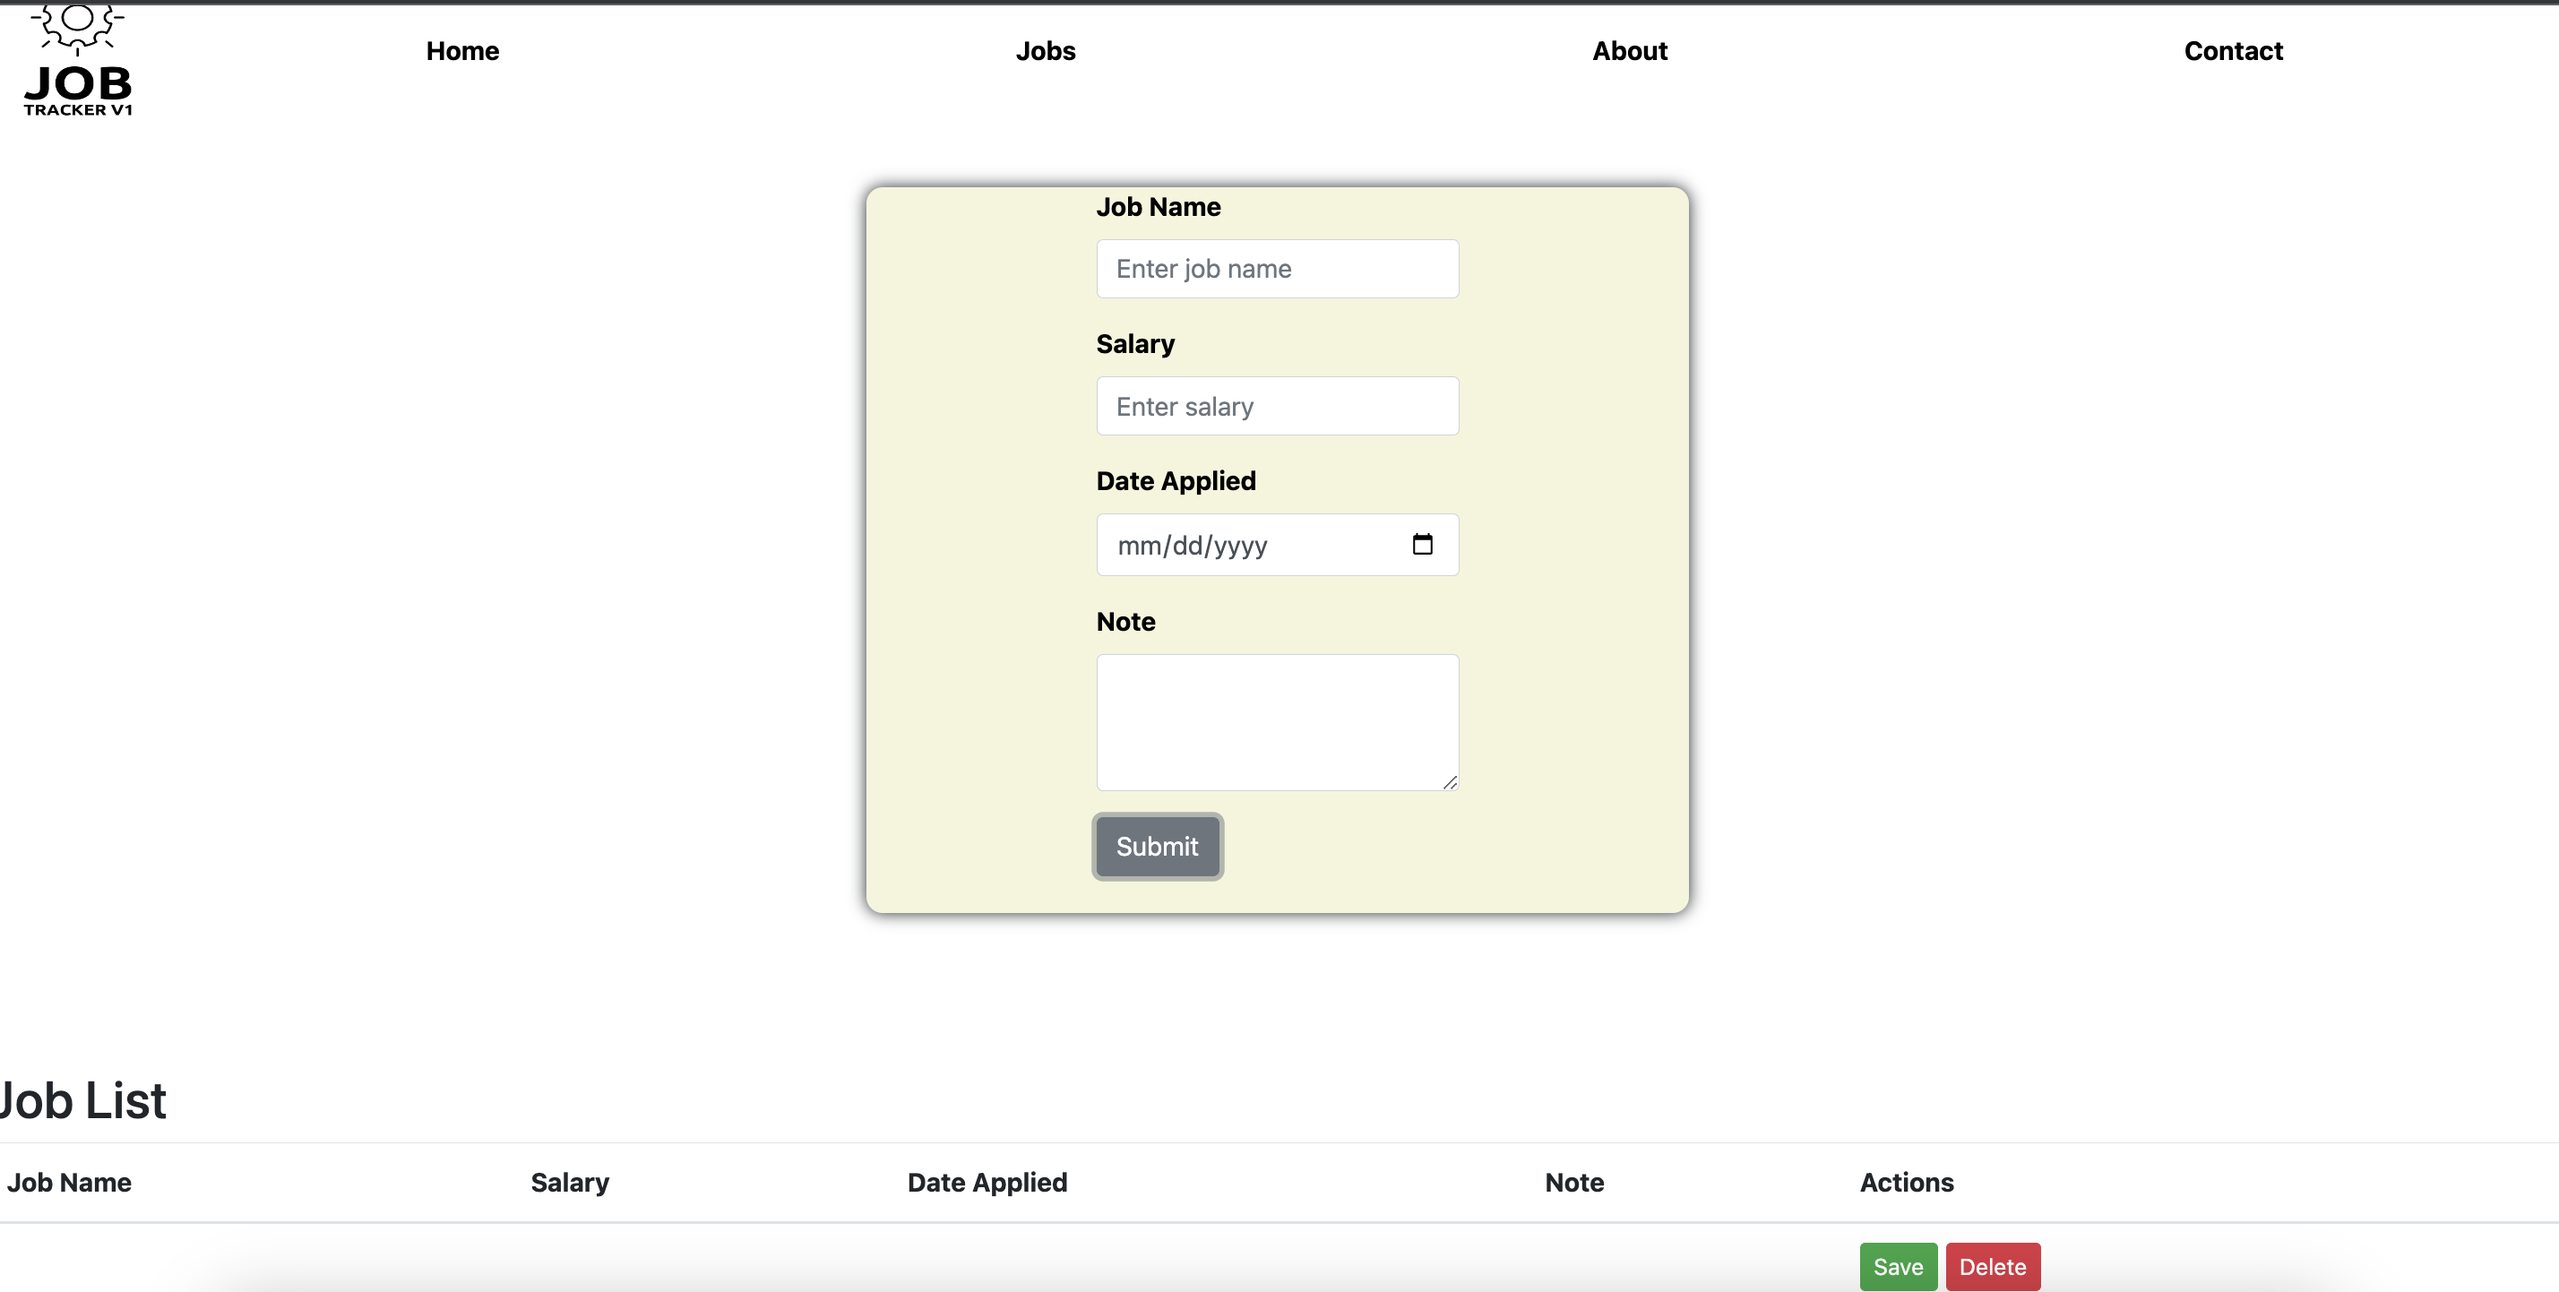
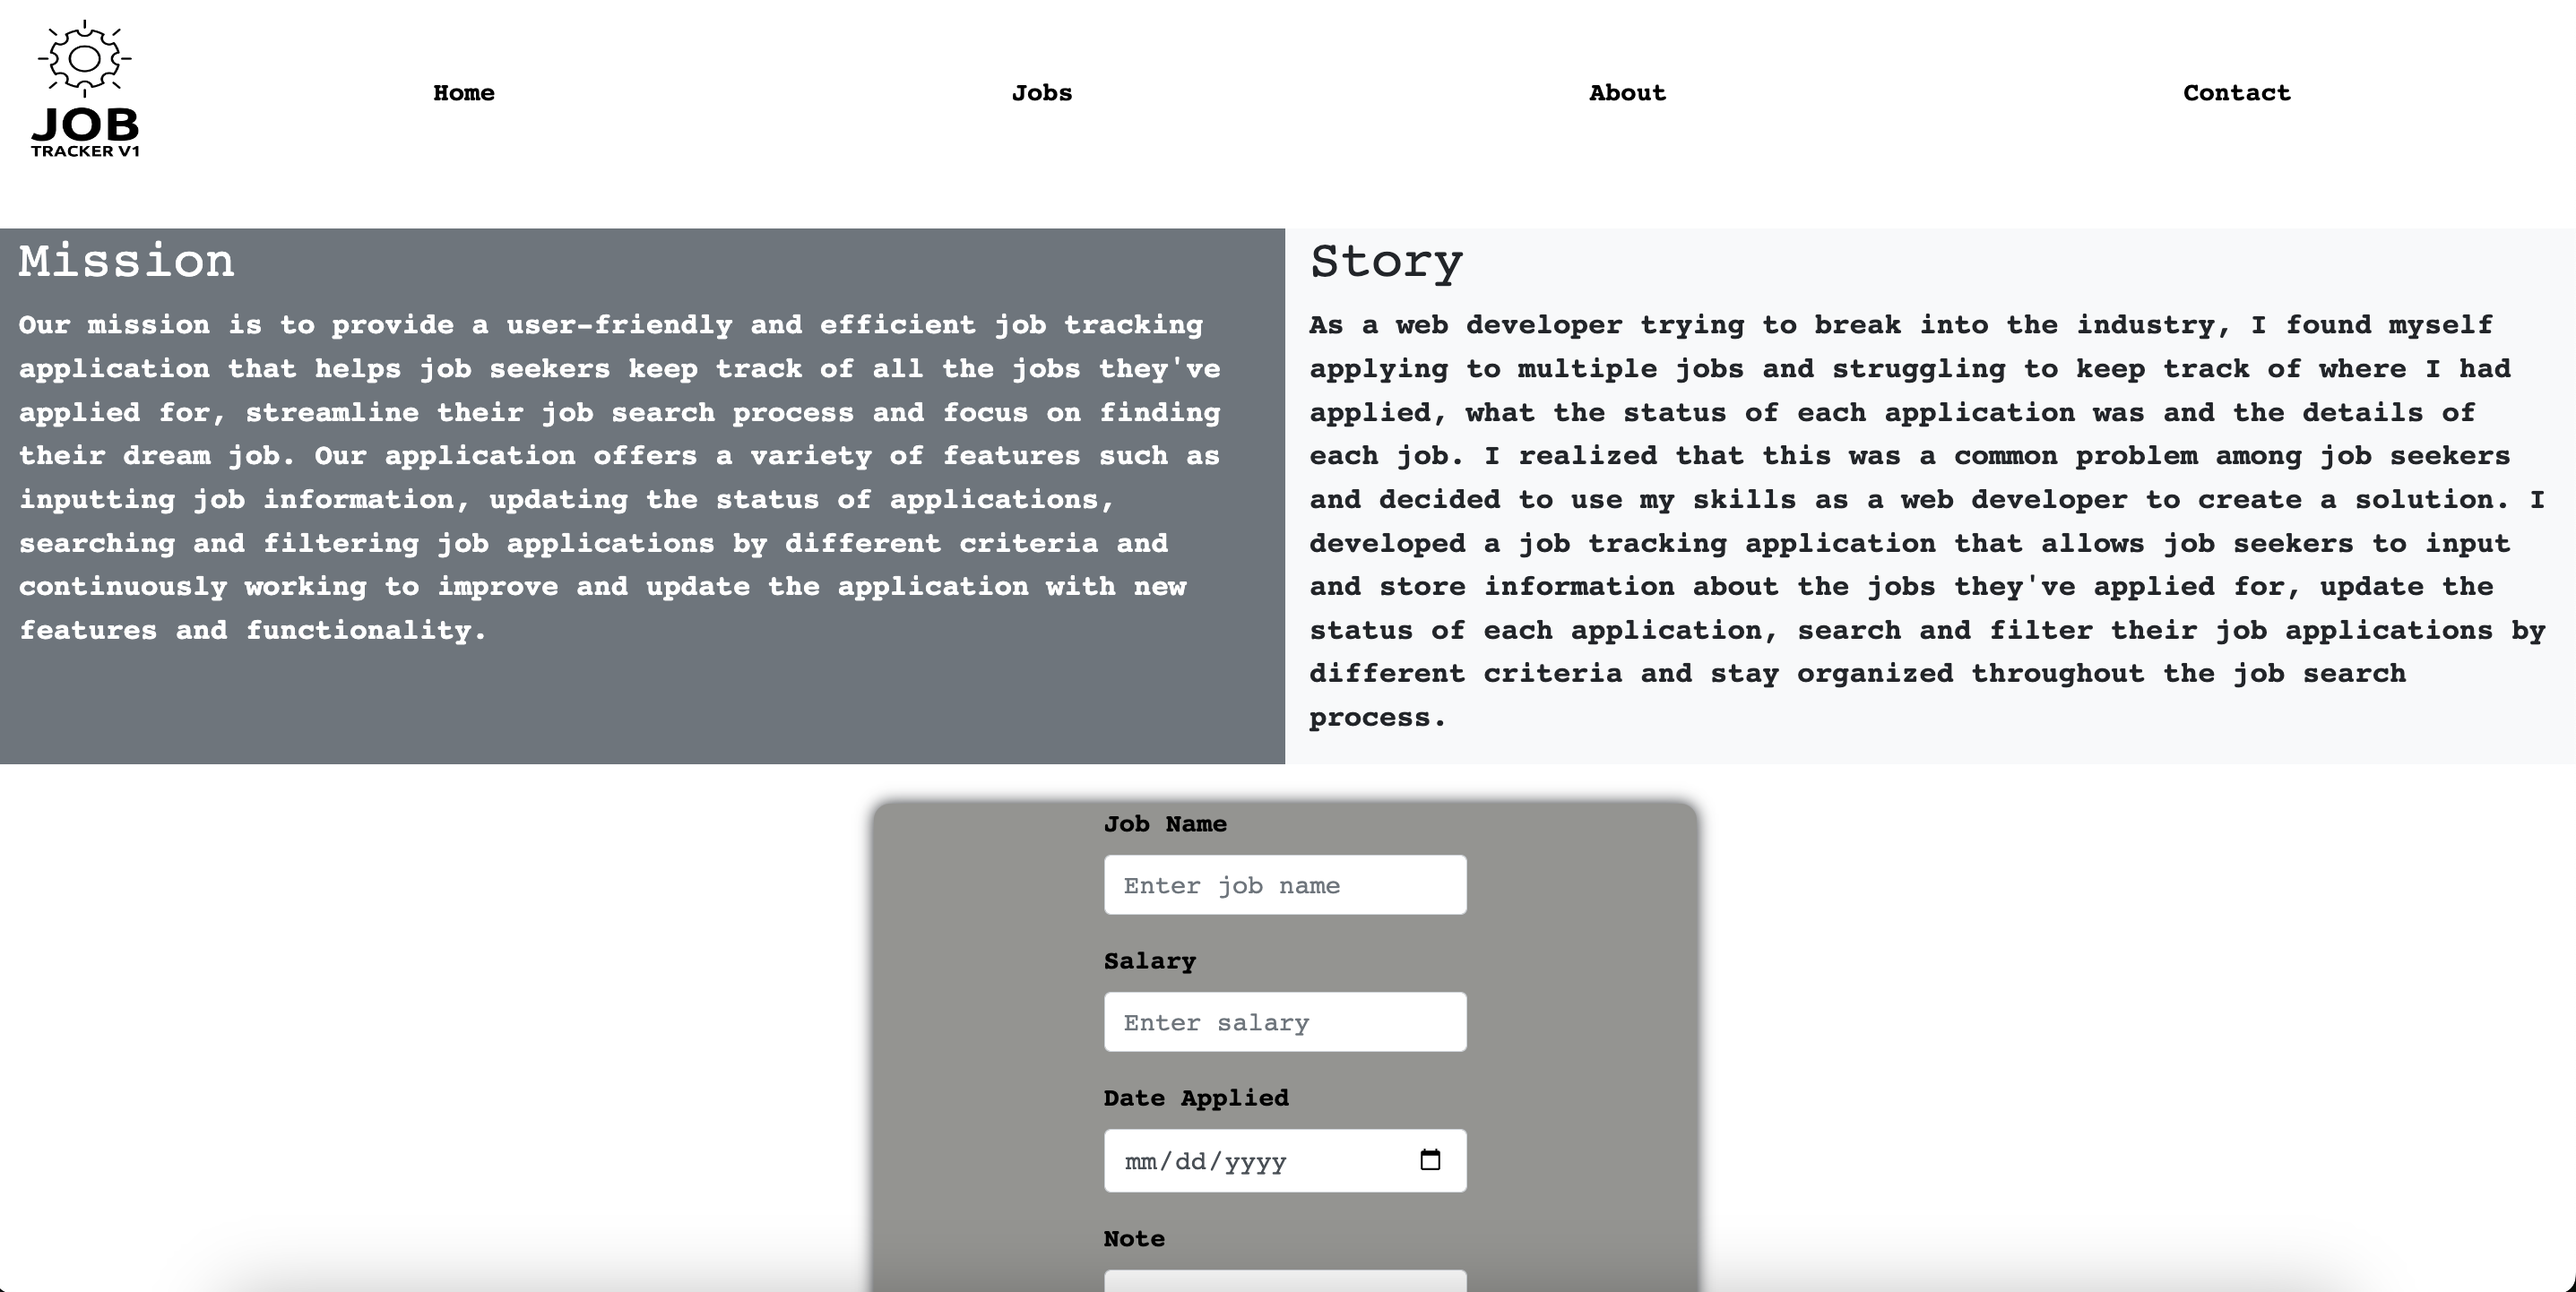
update webpage resdesign

diff --git a/index.html b/index.html
@@ -31,7 +31,22 @@
       </ul>
     </div>
   </nav>
-  
+
+  <br>
+  <div id="heading" class="container-fluid">
+    <div class="row">
+      <div class="col-12 col-md-6 bg-secondary text-white">
+        <h2>Mission</h2>
+        <p id="paragraph1">Our mission is to provide a user-friendly and efficient job tracking application that helps job seekers keep track of all the jobs they've applied for, streamline their job search process and focus on finding their dream job. Our application offers a variety of features such as inputting job information, updating the status of applications, searching and filtering job applications by different criteria and continuously working to improve and update the application with new features and functionality.
+        </p>
+      </div>
+      <div class="col-12 col-md-6 bg-light">
+        <h2>Story</h2>
+        <p id="paragraph1">As a web developer trying to break into the industry, I found myself applying to multiple jobs and struggling to keep track of where I had applied, what the status of each application was and the details of each job. I realized that this was a common problem among job seekers and decided to use my skills as a web developer to create a solution. I developed a job tracking application that allows job seekers to input and store information about the jobs they've applied for, update the status of each application, search and filter their job applications by different criteria and stay organized throughout the job search process. </p>
+      </div>
+    </div>
+  </div>
+
     <br>
     <div class="container modern-square">
       <div class="row">
@@ -101,7 +116,7 @@
             <span class="text-muted">Copyright &copy; Job Tracking Site 2020</span>
           </div>
           <div class="col-md-4">
-            <ul class="list-unstyled">
+            <ul class="list-unstyled" id="style">
               <li><a href="#">About</a></li>
               <li><a href="#">Contact</a></li>
               <li><a href="#">Terms of Service</a></li>

diff --git a/style.css b/style.css
@@ -1,3 +1,10 @@
+body {
+  font-family: monospace, sans-serif;
+  font-weight: bolder;
+}
+
+
+
 .spaced-buttons{
     margin-right: 5px;
   }
@@ -6,11 +13,19 @@
     width: 510px;
     height: 450px;
     margin: 0 auto; 
-    background-color: #f5f5dc;
+    background-color: #949491;
     box-shadow: 0px 0px 10px 0px;
     border-radius: 10px;
   }
 
   #joblist {
     margin-left: 20px; 
+  }
+
+  .list-unstyled li a {
+    color: black;
+  }
+  
+  #paragraph1{
+    font-size: large;
   }
